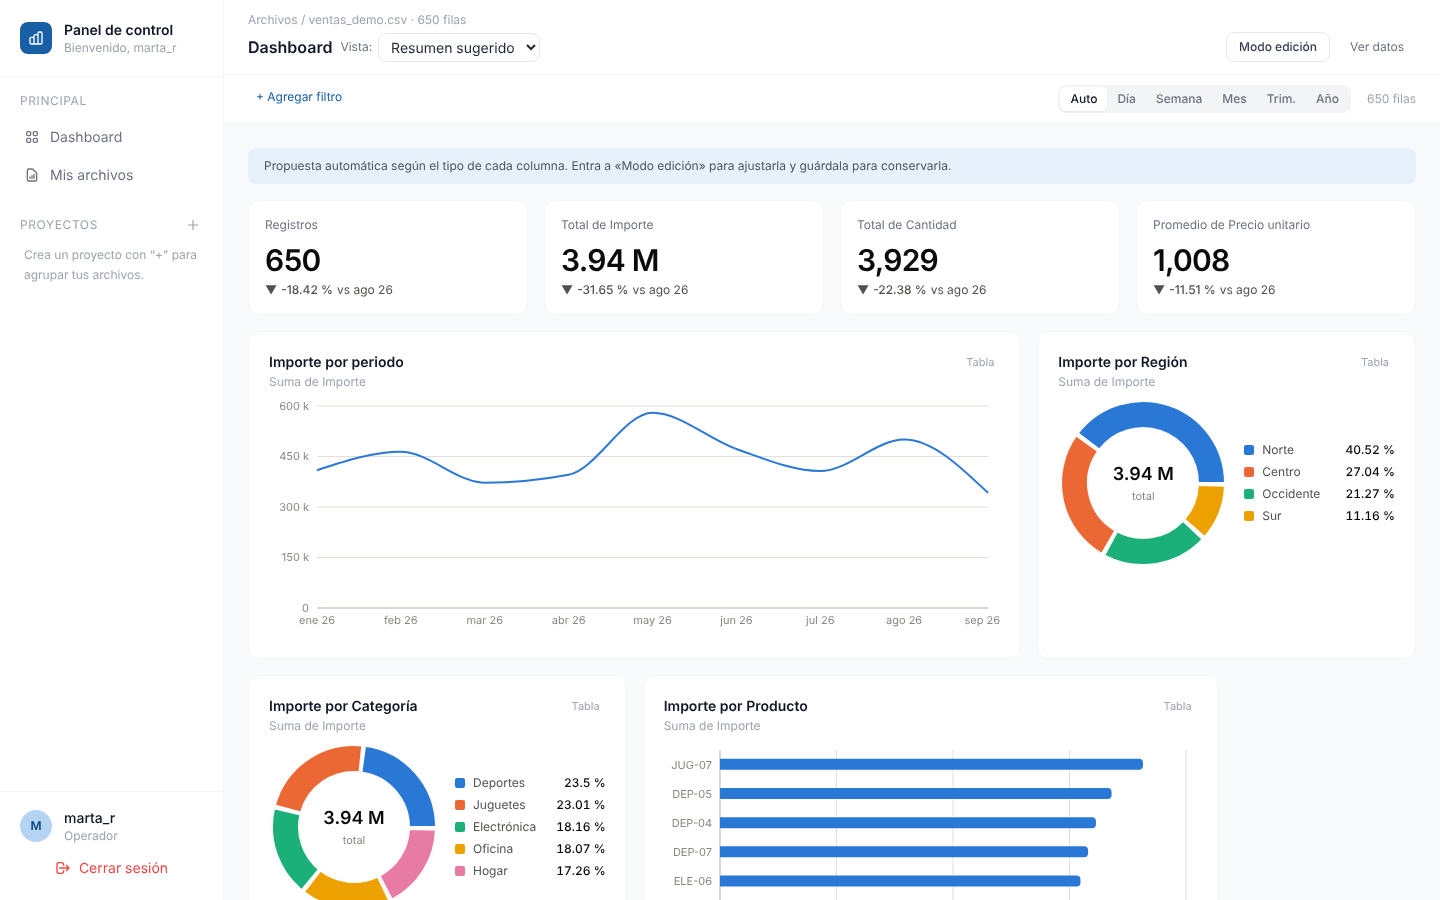
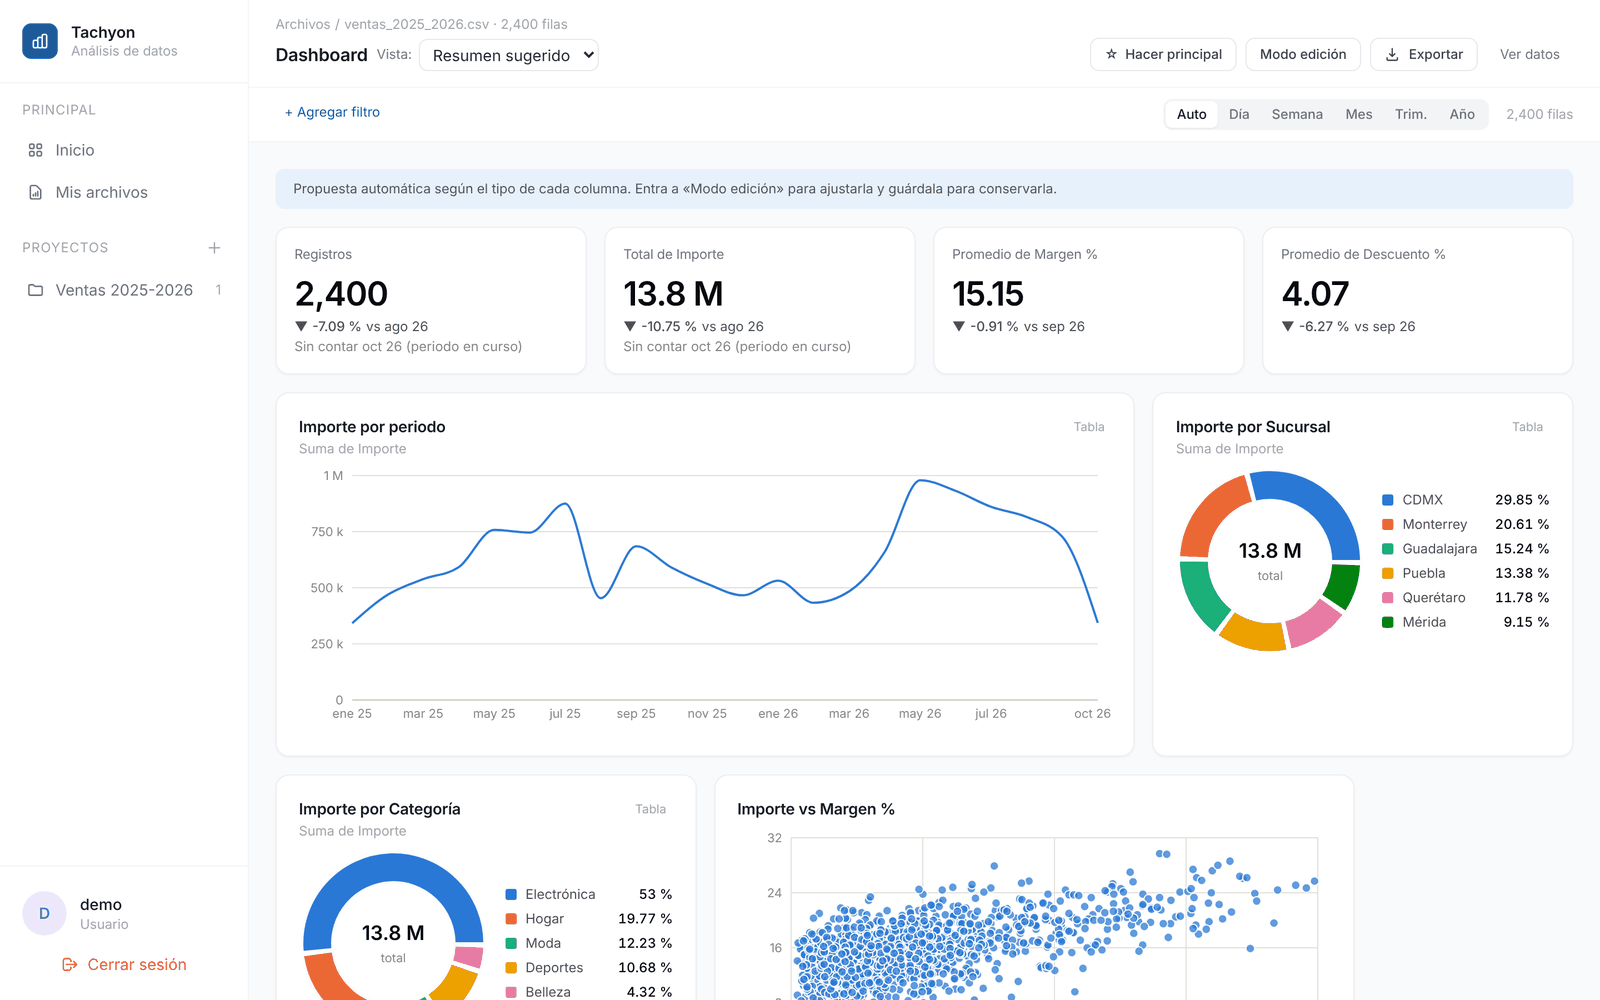
Rediseña el README como presentación del proyecto
Nuevas capturas con datos de ejemplo; se retiran instalación, variables,
despliegue y detalles internos del README público.

Claude-Session: https://claude.ai/code/session_01Xd5qpkqvjpc5LbNj67SM3J

diff --git a/README.md b/README.md
@@ -1,210 +1,74 @@
-# Project_Tachyon
+<div align="center">
 
-![CI](https://github.com/Jorge3023/Project_tachyon/actions/workflows/ci.yml/badge.svg)
+# Tachyon
 
-Plataforma web para analizar **cualquier Excel o CSV**: sube un archivo, el sistema detecta el tipo de cada columna, tú lo revisas y queda guardado de forma privada. Después armas dashboards a tu medida (con mapa incluido), los compartes en solo lectura y los exportas a imagen, PDF, PowerPoint, Excel o CSV.
+**De tu Excel a un dashboard, sin fórmulas ni configuraciones.**
 
-## Funcionalidades
+Plataforma web para analizar cualquier archivo de Excel o CSV: lo subes, el sistema entiende tus columnas y en segundos tienes un tablero interactivo listo para explorar, compartir y exportar.
 
-- Inicio de sesión con cuentas creadas por el administrador; datos privados por usuario y compartir por correo (solo lectura).
-- Subida de cualquier Excel o CSV con detección automática de columnas y revisión manual; **plantillas** para reconocer solos los archivos con las mismas columnas.
-- **Proyectos**: carpetas personales para agrupar archivos.
-- Visor de datos por páginas con resumen por columna.
-- **Dashboards editables** por archivo: propuesta automática, 11 tipos de gráfica (incluido **mapa geográfico**), filtros, varias vistas guardadas, arrastre animado y un **dashboard principal** que se abre al entrar.
-- **Exportación** a PNG, PDF, PowerPoint, Excel y CSV desde una pantalla con vista previa.
+<br>
+
+<img src="images/dashboard.png" alt="Dashboard generado automáticamente a partir de un archivo de ventas" width="900">
+
+<sub>Dashboard generado automáticamente a partir de un CSV de ejemplo.</sub>
+
+</div>
+
+<br>
+
+## Qué es
+
+Tachyon nace de una idea sencilla: la mayoría de la gente ya tiene sus datos en una hoja de cálculo, pero convertirlos en algo que se pueda leer de un vistazo requiere fórmulas, tablas dinámicas o herramientas de BI pensadas para especialistas.
+
+Aquí el proceso es el contrario. Subes el archivo, confirmas lo que el sistema detectó y obtienes un dashboard que luego puedes ajustar a tu gusto. No importa de qué trate el archivo: ventas, inventarios, encuestas, producción o finanzas.
+
+## Lo que hace
+
+- **Entiende tus columnas solo.** Detecta fechas, categorías, medidas y datos geográficos, y te muestra su propuesta para que la confirmes o corrijas antes de guardar.
+- **Aprende de tus archivos.** Si vuelves a subir un archivo con las mismas columnas, lo reconoce y se salta la revisión.
+- **Propone un dashboard.** Indicadores con comparación contra el periodo anterior, tendencias, distribuciones y relaciones entre variables, elegidos según el tipo de cada columna.
+- **Se edita a tu medida.** Once tipos de gráfica (incluido mapa geográfico), filtros globales y por gráfica, varias vistas guardadas y reordenamiento arrastrando.
+- **Exporta lo que ves.** Imagen, PDF, PowerPoint, Excel o CSV, con vista previa antes de descargar.
+- **Comparte con control.** Cada usuario ve únicamente sus datos; puede compartir un archivo por correo en modo solo lectura.
+- **Se organiza en proyectos.** Carpetas personales para agrupar archivos relacionados.
+- **Funciona en el celular.** La interfaz se adapta a pantallas pequeñas.
+
+## Recorrido
+
+<table>
+<tr>
+<td width="50%"><img src="images/inicio.png" alt="Pantalla de inicio"><br><b>Inicio</b><br><sub>Resumen de tu actividad, accesos rápidos y guía para empezar.</sub></td>
+<td width="50%"><img src="images/columnas.png" alt="Revisión de columnas detectadas"><br><b>Revisión de columnas</b><br><sub>El sistema propone el tipo de cada columna y explica por qué.</sub></td>
+</tr>
+<tr>
+<td width="50%"><img src="images/edicion.png" alt="Modo edición del dashboard"><br><b>Modo edición</b><br><sub>Cambia el tipo de gráfica, la métrica y los filtros al instante.</sub></td>
+<td width="50%"><img src="images/exportar.png" alt="Pantalla de exportación"><br><b>Exportación</b><br><sub>Vista previa y descarga en varios formatos.</sub></td>
+</tr>
+</table>
+
+<div align="center">
+
+<img src="images/movil.png" alt="Versión móvil" width="820">
+
+<sub>Versión móvil.</sub>
+
+</div>
 
 ## Tecnologías
 
-| Parte | Con qué |
+| Capa | Herramientas |
 |---|---|
-| Backend | Python 3.12, FastAPI, pandas, pyarrow (Parquet), openpyxl, JWT |
-| Datos | SQLite en desarrollo; PostgreSQL y almacenamiento de archivos en Supabase en producción |
-| Frontend | React 18, Vite, Tailwind CSS, React Router, Recharts, Leaflet |
-| Exportación (navegador) | html-to-image, jsPDF, pptxgenjs, JSZip (se descargan solo al exportar) |
-| Despliegue | Cloudflare (frontend), Render (API), Supabase (PostgreSQL y Storage) |
+| Interfaz | React, Vite, Tailwind CSS, Recharts, Leaflet |
+| API | Python, FastAPI, pandas |
+| Datos | PostgreSQL y almacenamiento en formato columnar (Parquet) |
+| Calidad | Pruebas automatizadas del backend e integración continua |
 
-## Estructura del proyecto
+## Estado del proyecto
 
-```text
-project_tachyon/
-├── backend/
-│   ├── main.py            Crea la app, CORS y registra los routers (punto de entrada: `main:app`)
-│   ├── core/              Base de datos, almacenamiento, sesiones, permisos, migraciones y configuración
-│   ├── servicios/         Lógica de datos sin HTTP: detector de columnas, motor de dashboards, exportación, Parquet
-│   ├── routers/           Endpoints agrupados por tema (auth, archivos, datasets, dashboards, exportación…)
-│   ├── tests/             Suites de pruebas (pytest) y servidor falso de Supabase
-│   └── requirements.txt
-├── frontend/
-│   └── src/
-│       ├── App.jsx        Rutas
-│       ├── shared/        Cliente de la API y piezas comunes (layout, menú lateral, PageHeader, FilaArchivo, Vacio, Cargando)
-│       └── features/      Una carpeta por funcionalidad, cada una con sus pages/ y components/
-│           ├── auth/        Sesión, login y nombre de usuario
-│           ├── archivos/    Mis archivos, subida, revisión de columnas, compartir y visor de datos
-│           ├── proyectos/   Proyectos
-│           ├── usuarios/    Administración de usuarios y estado del sistema
-│           ├── dashboard/   Editor, gráficas, mapa, filtros y dashboard principal
-│           └── exportar/    Pantalla de exportación (imagen, PDF, PowerPoint)
-├── .github/workflows/ci.yml   Pruebas del backend (SQLite y PostgreSQL) y compilación del frontend
-└── images/                Capturas del README
-```
+Proyecto en desarrollo activo. Las próximas etapas se enfocan en más tipos de análisis, plantillas de dashboard reutilizables y mejoras de rendimiento con archivos grandes.
 
-Dentro del frontend, los imports entre carpetas usan el alias `@` (`@/features/dashboard/lib/dash` = `frontend/src/features/dashboard/lib/dash`). Todas las páginas usan el mismo `PageHeader` (migas, título, acciones) y la jerarquía de botones de `index.css`: `btn-primary` (acción principal), `btn-secondary` (habitual), `btn-ghost` (terciaria) y `btn-danger` (destructiva). Una funcionalidad puede usar `shared/` y otras funcionalidades, pero `shared/` no depende de ellas salvo el menú lateral.
+---
 
-## Inicio rápido
+<sub>Las capturas usan datos de ejemplo generados para esta documentación.</sub>
 
-Necesitas Python 3.12 y Node.js 18 o superior.
-
-**1. Backend**
-
-```bash
-cd backend
-pip install -r requirements.txt
-SEED_DEMO_USERS=1 python main.py          # en PowerShell: $env:SEED_DEMO_USERS="1"; python main.py
-```
-
-API en `http://localhost:8000` y documentación interactiva en `http://localhost:8000/docs`. `SEED_DEMO_USERS=1` crea cuentas de demostración **solo para desarrollo** (por ejemplo `mrodriguez@empresa.com` / `operador123`); en producción usa `ADMIN_EMAIL` y `ADMIN_PASSWORD`. La base SQLite (`tachyon.db`) se crea sola.
-
-**2. Frontend** (otra terminal)
-
-```bash
-cd frontend
-npm install
-npm run dev
-```
-
-Aplicación en `http://localhost:5173`.
-
-## Pruebas
-
-```bash
-cd backend
-pip install pytest
-python -m pytest tests -v                  # todas las suites con SQLite
-# además contra PostgreSQL (cada suite crea y borra su propia base):
-TEST_PG_ADMIN_URL=postgresql://usuario:clave@localhost:5432/postgres python -m pytest tests -v
-```
-
-Cada suite (`backend/tests/suite_*.py`) también se puede correr sola con `python backend/tests/suite_dashboard.py`. En GitHub, el flujo **CI** corre todo esto y compila el frontend en cada pull request.
-
-## Capturas
-
-**Login**
-
-![Login](images/login.png)
-
-**Dashboard editable (propuesta automática)**
-
-![Dashboard](images/dashboard.png)
-
-**Mis archivos y proyectos**
-
-![Archivos](images/archivos.png)
-
-## Variables de entorno
-
-**Backend (Render u otro host)**
-
-| Variable | Para qué sirve |
-|---|---|
-| `SECRET_KEY` | Clave para firmar los tokens JWT (mínimo 32 caracteres). **Obligatoria en producción.** |
-| `ALLOWED_ORIGINS` | URL(s) del frontend permitidas por CORS, separadas por coma. Ej: `https://tachyon.pages.dev` |
-| `SEED_DEMO_USERS` | `1` crea cuentas de demostración con contraseñas públicas. **Solo para desarrollo local;** por defecto no se crean. |
-| `ADMIN_EMAIL` / `ADMIN_PASSWORD` | Crean el administrador inicial (contraseña de 8+ caracteres). **Necesarias** si no usas cuentas de demostración. |
-| `DATABASE_URL` | Cadena de conexión de PostgreSQL (Supabase). Si no se define se usa SQLite local, que **se pierde** en hosts con disco efímero como Render gratis. |
-| `SUPABASE_URL` | URL del proyecto de Supabase (`https://xxxx.supabase.co`). |
-| `SUPABASE_SECRET_KEY` | Clave secreta de Supabase (`sb_secret_...`) para guardar archivos en Storage. Solo en el servidor, nunca en el frontend ni en Git. |
-| `SUPABASE_BUCKET` | Nombre del bucket privado de Storage. Por defecto `datasets`. |
-| `DB_POOL_MAX` | Conexiones máximas a la base de datos (por defecto 5). |
-| `PARQUET_CACHE_MAX_MB` | Memoria para guardar los datasets abiertos recientemente y no bajarlos del Storage en cada gráfica (por defecto 40). |
-
-**Frontend (build)**
-
-| Variable | Para qué sirve |
-|---|---|
-| `VITE_API_URL` | URL del backend. En desarrollo usa `http://localhost:8000` por defecto. |
-| `VITE_BASE` | Solo si se publica en una subcarpeta (ej. `/Project_tachyon/`). Normalmente vacío. |
-| `VITE_TILES_URL` / `VITE_TILES_ATTRIBUTION` | Proveedor de mosaicos del mapa. Por defecto OpenStreetMap (gratis, con atribución, para uso moderado); para mucho tráfico usa uno con cuenta (MapTiler, Stadia, Mapbox…) con una URL tipo `https://…/{z}/{x}/{y}.png`. |
-
-## Usuarios, privacidad y compartir
-
-- **Cuentas:** el administrador crea cuentas desde *Usuarios* (correo + contraseña temporal). En su primer ingreso, cada persona elige su **nombre de usuario** (único, de 3 a 20 caracteres, no se cambia después).
-- **Foto de perfil:** cada persona puede subir la suya haciendo clic en su nombre (abajo del menú). El navegador la recorta en cuadrado y la reduce a 256 px; el servidor valida el tipo real (JPG, PNG o WebP, máx. 300 KB) y la guarda en el almacenamiento (`avatares/`). La ven su dueño y los administradores.
-- **Eliminar cuentas:** el administrador puede eliminar una cuenta desde *Usuarios* (con confirmación; no la propia). Se borran sus archivos —también del almacenamiento—, proyectos, dashboards, plantillas, foto y los accesos compartidos por y hacia su correo, de modo que quien se registre después con ese correo empieza de cero. Es irreversible. «Desactivar» bloquea el acceso sin borrar nada.
-- **Privacidad:** cada archivo (y lo que se calcula de él) es solo de quien lo subió. Ni el administrador ve los archivos de los demás.
-- **Compartir:** el dueño puede compartir un archivo por correo electrónico (solo lectura). Si la persona aún no tiene cuenta, lo verá cuando entre con ese correo. Se puede dejar de compartir en cualquier momento.
-
-## Cualquier Excel o CSV (datasets genéricos)
-
-En **Mis archivos → Subir cualquier Excel o CSV** puedes subir `.xlsx`, `.xls`, `.csv` o `.tsv` (hasta 25 MB).
-
-1. El sistema lee el archivo (elige la hoja con más datos, salta filas de título, detecta separador y codificación) y **propone el tipo de cada columna**: fecha, número, categoría, identificador, estado o texto libre.
-2. Una pantalla de revisión te deja corregir hoja, fila de encabezados, nombre y tipo de cada columna (o ignorarla). Las dudosas salen marcadas como *Revisar*.
-3. Al guardar se limpian los valores (`$1,234.50`, `1.234,5`, `17,3%`, fechas `dd/mm/aaaa`, números de serie de Excel) y se guarda el dataset tipado.
-4. Si marcas **guardar como plantilla**, cualquier archivo futuro con las mismas columnas (aunque cambie el orden o se agregue alguna) se interpreta solo.
-
-Los datasets siguen las mismas reglas de privacidad: solo los ve su dueño y quienes él elija por correo. Endpoints: `GET|POST /proyectos`, `PATCH|DELETE /proyectos/{id}`, `PUT /archivos/{id}/proyecto`, `POST /datasets/analizar`, `GET /datasets/{id}/analisis`, `POST /datasets/{id}/confirmar`, `GET /datasets/{id}/datos`, `GET|DELETE /plantillas`.
-
-
-## Dashboards
-
-Desde **Mis archivos → Dashboard** (o desde un proyecto) se abre el dashboard de un archivo:
-
-- **Propuesta automática:** según los roles de las columnas se arman indicadores, evolución en el tiempo, circulares, barras, Pareto, dispersión, histograma, mapa de calor, **mapa geográfico** (si hay columnas de latitud y longitud) y una tabla. La métrica principal es el importe/monto antes que cantidades o promedios.
-- **Modo edición** (solo el dueño): agrega, duplica, elimina y reordena gráficas: arrastra el asa ⠿ de cada tarjeta (con mouse o con el dedo) y las demás se acomodan con animación en tiempo real; también con las flechas ↑ ↓ del teclado; cambia el tipo, las columnas, la agregación (suma, promedio, conteo, mín., máx., mediana, únicos), el desglose, la granularidad de fechas, el ancho y el color; cada gráfica puede tener sus propios filtros.
-- **Filtros globales** por fecha, rango numérico o categorías, y granularidad (día, semana, mes, trimestre, año).
-- **Vistas:** puedes guardar varias por archivo (hasta 10) y cambiar entre ellas. Quien recibe el archivo compartido ve esas vistas en solo lectura y puede filtrar sin guardar.
-- Cada gráfica tiene su versión **«Tabla»** (accesibilidad) y los colores siguen una paleta validada para daltonismo.
-
-El navegador nunca recibe las filas ni manda fórmulas: manda una *configuración* que el servidor valida contra las columnas reales del archivo (agregaciones en lista blanca, límites de tamaño) y calcula con pandas, devolviendo solo resultados ya agregados. Endpoints: `GET /datasets/{id}/dashboard`, `POST /datasets/{id}/dashboard/datos`, `GET /datasets/{id}/valores`, `POST|PUT|DELETE /datasets/{id}/dashboard[/{vista}]`.
-
-**Mapa geográfico:** puntos sobre un mapa real (Leaflet + OpenStreetMap) a partir de una columna de latitud (±90) y otra de longitud (±180). El tamaño del punto puede ser el número de filas o una métrica (suma, promedio…) y el color puede ir por categoría. Si hay más de 800 ubicaciones distintas, el servidor agrupa las cercanas en una cuadrícula (el navegador nunca recibe más de 800 puntos) y avisa cuántas filas hay en cuántos puntos; las coordenadas imposibles se descartan y se avisa. La rueda del mouse solo acerca el mapa después de hacer clic en él, y en el móvil un dedo desplaza la página (dos dedos mueven el mapa). Leaflet solo se descarga cuando el dashboard tiene un mapa. Todavía no convierte nombres de ciudades en coordenadas (no hay geocodificación): hacen falta las columnas de latitud y longitud.
-
-**Dashboard principal:** con **☆ Hacer principal** cualquier usuario elige el dashboard (una vista guardada, o la propuesta de un archivo, también si se lo compartieron) que se abre al entrar; es una preferencia personal. Mientras haya uno, el resumen de archivos queda en **Resumen** en el menú. Endpoints: `GET|PUT|DELETE /me/dashboard-principal`; si el archivo se borra o se deja de compartir, el principal se limpia solo.
-
-**Exportar:** el botón **Exportar** del dashboard abre una pantalla aparte (`/datos/:id/exportar`) con vista previa. Lo puede usar cualquiera que vea el archivo, también quien lo recibió compartido. Lleva los cambios sin guardar del editor y tiene sus propios filtros, que solo afectan a la exportación.
-- **Imagen (PNG)**: una sola imagen con título, filtros y fecha, o una por gráfica en un ZIP.
-- **PDF**: Carta o A4, horizontal o vertical; las gráficas se acomodan por filas sin partir ninguna entre páginas, con encabezado y «Página n de N».
-- **PowerPoint**: portada, y varias gráficas por diapositiva o una por diapositiva. Cada diapositiva lleva el nombre del archivo como texto editable.
-- **Excel**: hoja «Resumen» (archivo, vista, filtros), hoja «Datos» con las filas filtradas y una hoja con los números de cada gráfica. Hasta 50 000 filas.
-- **CSV**: las filas filtradas, UTF-8 con marca (Excel muestra bien los acentos). Hasta 500 000 filas.
-
-Imagen, PDF y PowerPoint se arman en el navegador fotografiando las mismas gráficas que se ven en pantalla (`html-to-image`, `jspdf`, `pptxgenjs`, `jszip`; se descargan solo al exportar). Excel y CSV los genera el servidor: `POST /datasets/{id}/exportar` con `{config, formato: "csv"|"xlsx", datos, graficas, widgets, vista}`. Los textos que empiezan con `=`, `+`, `-` o `@` se guardan como texto para que Excel no los ejecute como fórmulas. En el mapa exportado se conserva la atribución de OpenStreetMap, como exige su licencia; si los mosaicos no cargan, el mapa sale sin fondo y se avisa. En móviles se limita la nitidez para no agotar la memoria.
-
-## Configurar Supabase (producción)
-
-La aplicación guarda **usuarios, archivos, plantillas y permisos en PostgreSQL** y los **datos limpios y borradores en Supabase Storage** (formato Parquet). Sin estas variables usa SQLite y el disco local, solo apropiados para desarrollo.
-
-1. En [supabase.com](https://supabase.com) crea un proyecto. Anota la contraseña de la base de datos en un gestor de contraseñas.
-2. **Storage → New bucket**: nombre `datasets`, **privado** (sin marcar "Public bucket").
-3. **Connect** (arriba en el panel) → **Session pooler** → copia la cadena y sustituye `[YOUR-PASSWORD]` por tu contraseña. Usa el *session pooler* (no la conexión directa): la directa solo funciona por IPv6 y Render gratis usa IPv4. Si la contraseña tiene símbolos como `@`, `#`, `?` o `&`, codifícalos (por ejemplo `@` → `%40`).
-4. **Settings → API Keys**: copia la *Project URL* y la clave **secret** (`sb_secret_...`).
-5. En Render → **Environment** define `DATABASE_URL`, `SUPABASE_URL`, `SUPABASE_SECRET_KEY` y, si cambiaste el nombre del bucket, `SUPABASE_BUCKET`. Define también `ADMIN_EMAIL` y `ADMIN_PASSWORD` (la base nueva empieza vacía).
-6. Entra como administrador → **Usuarios → Estado del sistema → Comprobar ahora**. Deben aparecer en verde *PostgreSQL (Supabase)* y *Supabase Storage*.
-
-Notas:
-- Las tablas se crean solas al arrancar, con la seguridad por filas activada y sin acceso para los roles públicos de Supabase (`anon`, `authenticated`): solo este servidor puede leerlas.
-- La clave `sb_secret_` da acceso total a tu proyecto: no la subas a Git ni la pegues en el chat. Si se filtra, genera otra en *Settings → API Keys*.
-- Si la clave nueva fallara en Storage, la clave antigua `service_role` (empieza con `eyJ`) también funciona en `SUPABASE_SECRET_KEY`.
-- Plan gratis de Supabase: 500 MB de base de datos, 1 GB de archivos y el proyecto se pausa tras una semana sin uso.
-- Los datos que ya estuvieran en el SQLite de Render **no se migran** (ese disco es efímero).
-- `ADMIN_EMAIL` / `ADMIN_PASSWORD` solo crean el administrador **si no existe**: cambiar `ADMIN_PASSWORD` después no cambia la contraseña de una cuenta ya creada.
-
-### Dónde se guarda cada cosa
-
-| Dónde | Qué |
-|---|---|
-| **PostgreSQL** (pequeño) | Usuarios (contraseña cifrada), una fila por archivo con sus metadatos y resumen, plantillas y con quién se comparte cada archivo |
-| **Storage** `datasets/{id}.parquet` | Los datos limpios de cada Excel/CSV genérico, en grupos de 10 000 filas (Parquet + zstd) |
-| **Storage** `borradores/{id}.src` | El archivo original, solo mientras revisas las columnas (se borra al confirmar o cancelar) |
-
-Al abrir **Ver datos** solo se lee del Parquet la página pedida (no el archivo completo) y el resumen por columna se calcula una sola vez, al confirmar.
-
-## Hoja de ruta
-
-- [x] Detección automática de columnas en cualquier Excel/CSV.
-- [x] Plantillas, privacidad por usuario y compartir por correo.
-- [x] Editor de dashboards con gráficas propuestas según el tipo de columnas.
-- [x] Mapa geográfico, dashboard principal y arrastre animado.
-- [x] Exportación (imagen, PDF, PowerPoint, CSV/Excel).
-- [ ] Clasificadores y análisis asistido.
+© 2026 Jorge3023 — Todos los derechos reservados.
